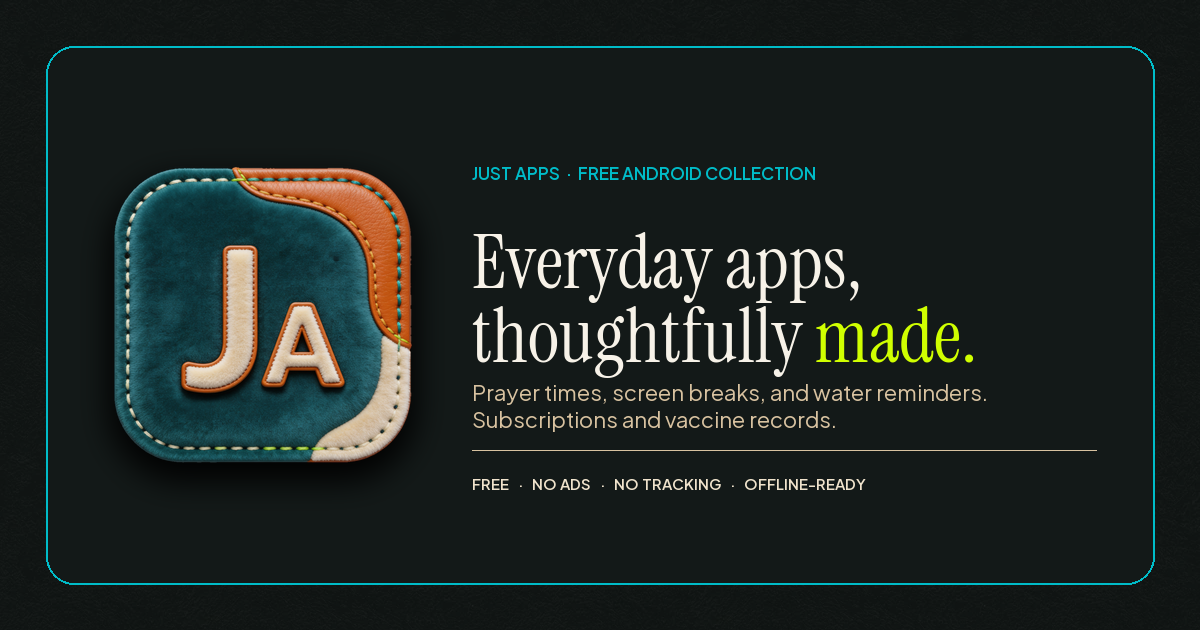
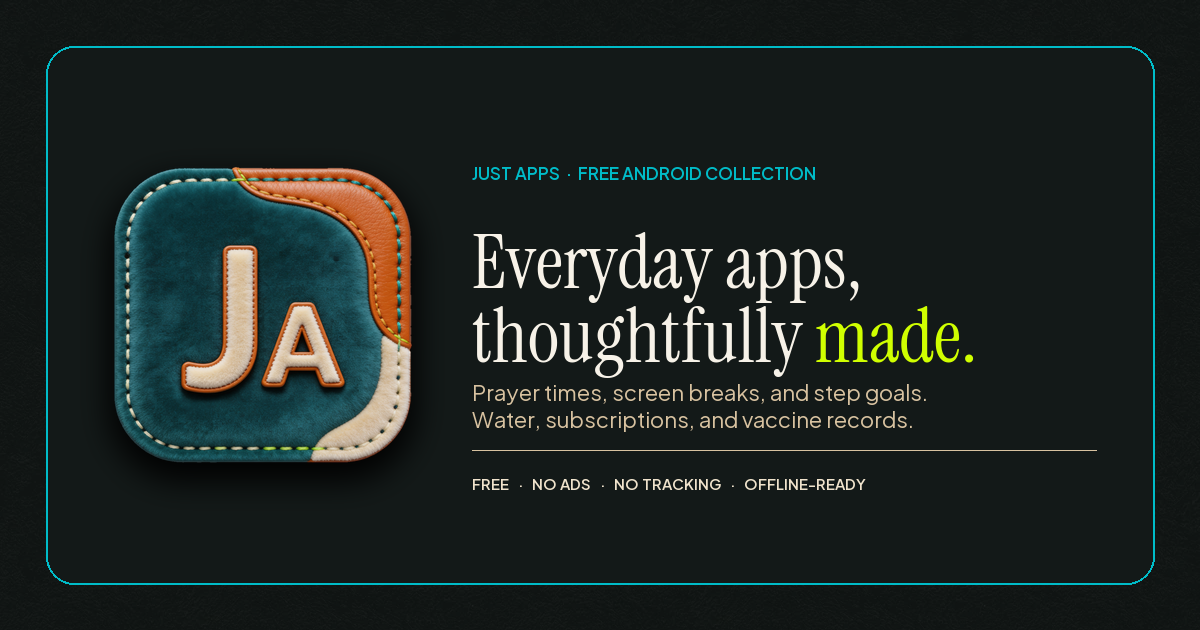
Add Step Reminder to landing page

Changed region(s): [[0.4008, 0.6032, 0.8325, 0.6937]]

diff --git a/docs/index.html b/docs/index.html
@@ -4,7 +4,7 @@
 <meta charset="utf-8">
 <meta name="viewport" content="width=device-width, initial-scale=1">
 <title>Free Android Apps, Quietly | Just Apps</title>
-<meta name="description" content="Just Apps makes thoughtful free apps for prayer times, screen breaks, water reminders, subscriptions and vaccine records. Private, ad-free, and quiet by design.">
+<meta name="description" content="Thoughtful free apps for prayer times, screen breaks, step goals, water reminders, subscriptions and vaccine records. Private, ad-free, and quiet by design.">
 <meta name="robots" content="index, follow, max-image-preview:large">
 <link rel="canonical" href="https://www.justsimpleapps.online/">
 <meta name="theme-color" content="#064B4D">
@@ -14,17 +14,17 @@
 <meta property="og:site_name" content="Just Apps">
 <meta property="og:locale" content="en_IN">
 <meta property="og:title" content="Free apps for everyday life, quietly | Just Apps">
-<meta property="og:description" content="Five useful apps for everyday life: prayer times, screen breaks, water reminders, subscriptions, and vaccine records. Free, private, and ad-free.">
+<meta property="og:description" content="Six useful apps for everyday life: prayer times, screen breaks, step goals, water reminders, subscriptions, and vaccine records. Free, private, and ad-free.">
 <meta property="og:image" content="https://www.justsimpleapps.online/assets/just-apps-social.png">
 <meta property="og:image:type" content="image/png">
 <meta property="og:image:width" content="1200">
 <meta property="og:image:height" content="630">
-<meta property="og:image:alt" content="Just Apps: five useful apps, including water reminders, with no ads or clutter">
+<meta property="og:image:alt" content="Just Apps: six useful apps, including step and water reminders, with no ads or clutter">
 <meta name="twitter:card" content="summary_large_image">
 <meta name="twitter:title" content="Free apps for everyday life, quietly | Just Apps">
-<meta name="twitter:description" content="Prayer times, screen breaks, water reminders, subscriptions, and vaccine records. Free, private, and ad-free.">
+<meta name="twitter:description" content="Prayer times, screen breaks, step goals, water reminders, subscriptions, and vaccine records. Free, private, and ad-free.">
 <meta name="twitter:image" content="https://www.justsimpleapps.online/assets/just-apps-social.png">
-<meta name="twitter:image:alt" content="Just Apps: five useful apps, including water reminders, with no ads or clutter">
+<meta name="twitter:image:alt" content="Just Apps: six useful apps, including step and water reminders, with no ads or clutter">
 <link rel="icon" href="/favicon.ico" sizes="32x32">
 <link rel="icon" type="image/svg+xml" href="/assets/just-apps-icon.svg">
 <link rel="icon" type="image/png" sizes="32x32" href="/assets/just-apps-icon-32.png">
@@ -44,7 +44,7 @@
       "name": "Just Apps",
       "alternateName": "Just Simple Apps",
       "url": "https://www.justsimpleapps.online/",
-      "description": "A small studio making free, quiet Android apps for everyday life: prayer times, screen breaks, water reminders, subscriptions and childhood vaccine records.",
+      "description": "A small studio making free, quiet Android apps for everyday life: prayer times, screen breaks, step goals, water reminders, subscriptions and childhood vaccine records.",
       "slogan": "Free apps for everyday life, quietly.",
       "foundingLocation": {
         "@type": "Place",
@@ -72,7 +72,7 @@
       "url": "https://www.justsimpleapps.online/",
       "name": "Just Apps",
       "alternateName": "Just Simple Apps",
-      "description": "Free, ad-free apps for prayer times, screen breaks, water reminders, subscriptions and vaccine records.",
+      "description": "Free, ad-free apps for prayer times, screen breaks, step goals, water reminders, subscriptions and vaccine records.",
       "publisher": {
         "@id": "https://www.justsimpleapps.online/#organization"
       },
@@ -83,7 +83,7 @@
       "@id": "https://www.justsimpleapps.online/#webpage",
       "url": "https://www.justsimpleapps.online/",
       "name": "Free Android Apps, Quietly | Just Apps",
-      "description": "Just Apps makes thoughtful free apps for prayer times, screen breaks, water reminders, subscriptions and vaccine records. Private, ad-free, and quiet by design.",
+      "description": "Thoughtful free apps for prayer times, screen breaks, step goals, water reminders, subscriptions and vaccine records. Private, ad-free, and quiet by design.",
       "isPartOf": {
         "@id": "https://www.justsimpleapps.online/#website"
       },
@@ -111,6 +111,9 @@
         },
         {
           "@id": "https://www.justsimpleapps.online/#water-reminder"
+        },
+        {
+          "@id": "https://www.justsimpleapps.online/#steps-reminder"
         }
       ],
       "inLanguage": "en",
@@ -131,13 +134,13 @@
       "contentUrl": "https://www.justsimpleapps.online/assets/just-apps-social.png",
       "width": 1200,
       "height": 630,
-      "caption": "Just Apps: five useful apps, including water reminders, with no ads or clutter"
+      "caption": "Just Apps: six useful apps, including step and water reminders, with no ads or clutter"
     },
     {
       "@type": "ItemList",
       "@id": "https://www.justsimpleapps.online/#apps",
-      "name": "Free Android apps by Just Apps",
-      "numberOfItems": 5,
+      "name": "Free apps by Just Apps",
+      "numberOfItems": 6,
       "itemListOrder": "https://schema.org/ItemListOrderAscending",
       "itemListElement": [
         {
@@ -302,6 +305,39 @@
             "downloadUrl": "https://github.com/owaiskhan-ash/Water-Reminder/releases/tag/v1.0.0",
             "softwareVersion": "1.0.0"
           }
+        },
+        {
+          "@type": "ListItem",
+          "position": 6,
+          "item": {
+            "@type": "SoftwareApplication",
+            "@id": "https://www.justsimpleapps.online/#steps-reminder",
+            "name": "Step Reminder",
+            "applicationCategory": "HealthApplication",
+            "operatingSystem": "Android 6.0 and later, web",
+            "url": "https://www.justsimpleapps.online/#steps-reminder",
+            "description": "A daily step counter with a goal you choose, a seven-day history and one reminder at a chosen hour. Steps, goals and history stay on your device.",
+            "image": "https://www.justsimpleapps.online/assets/steps/icon-192.png",
+            "featureList": [
+              "Daily step targets from 2,000 to 20,000",
+              "Android reads the phone's own step counter",
+              "Seven-day history and a daily ledger",
+              "One reminder at a chosen hour; web reminders fire only while the app is open",
+              "No account, Google Fit, Health Connect, cloud or analytics"
+            ],
+            "inLanguage": "en",
+            "isAccessibleForFree": true,
+            "publisher": {
+              "@id": "https://www.justsimpleapps.online/#organization"
+            },
+            "offers": {
+              "@type": "Offer",
+              "price": 0,
+              "priceCurrency": "INR"
+            },
+            "downloadUrl": "https://github.com/owaiskhan-ash/Steps-Reminder/releases/tag/v1.3.5",
+            "softwareVersion": "1.3.5"
+          }
         }
       ]
     },
@@ -317,7 +353,7 @@
           "name": "Are these apps free?",
           "acceptedAnswer": {
             "@type": "Answer",
-            "text": "Yes. All five apps are free to use or download, and none has ads."
+            "text": "Yes. All six apps are free to use or download, and none has ads."
           }
         },
         {
@@ -365,7 +401,7 @@
           "name": "Do the apps require an account or track me?",
           "acceptedAnswer": {
             "@type": "Answer",
-            "text": "The apps have no accounts, advertising or analytics tracking. Water Reminder makes no network requests, and Vaccine Routine stores its records locally on your device."
+            "text": "The apps have no accounts, advertising or analytics tracking. Water Reminder makes no network requests, and Vaccine Routine and Step Reminder keep personal records on your device."
           }
         },
         {
@@ -382,6 +418,22 @@
           "acceptedAnswer": {
             "@type": "Answer",
             "text": "No. Water Reminder only sends a nudge; it has no intake log, counters or charts."
+          }
+        },
+        {
+          "@type": "Question",
+          "name": "What does Step Reminder do?",
+          "acceptedAnswer": {
+            "@type": "Answer",
+            "text": "It tracks steps against a daily target, builds a seven-day history and gives one reminder at the hour you choose. Android reminders use local notifications; web reminders fire only while the app is open."
+          }
+        },
+        {
+          "@type": "Question",
+          "name": "Do steps from Step Reminder sync to Google Fit or Health Connect?",
+          "acceptedAnswer": {
+            "@type": "Answer",
+            "text": "No. Step counts, goals and history stay on your device. The app does not connect to Google Fit, Health Connect or a cloud service."
           }
         }
       ]
@@ -996,7 +1048,7 @@
   <div class="hero-message">
     <span class="eyebrow"><span class="dot" aria-hidden="true"></span>FREE, THOUGHTFUL APPS · NO ADS</span>
     <h1 id="mission-title">Free Android apps,<br>quietly <span class="accent-lime">made.</span></h1>
-    <p>From prayer times and screen breaks to water reminders, recurring bills, and a child’s vaccine record, each app is made to do one useful thing well. Simple, private, and free, with no ads or unnecessary noise.</p>
+    <p>From prayer times and screen breaks to step goals, water reminders, recurring bills, and a child’s vaccine record, each app is made to do one useful thing well. Simple, private, and free, with no ads or unnecessary noise.</p>
   </div>
 </section>
 
@@ -1006,9 +1058,9 @@
 <section class="section apps-section" id="apps">
   <div class="wrap">
     <div class="section-head">
-      <span class="kicker">THE COLLECTION · 05 APPS</span>
+      <span class="kicker">THE COLLECTION · 06 APPS</span>
       <h2>Small, thoughtful tools. Nothing <span class="accent-lime">extra.</span></h2>
-      <p>One gallery, five focused apps for the things worth keeping track of. Free to use, with no ads and privacy at the centre.</p>
+      <p>One gallery, six focused apps for the things worth keeping track of. Free to use, with no ads and privacy at the centre.</p>
     </div>
 
     <div class="apps">
@@ -1103,6 +1155,22 @@
           <p class="app-meta">Android 7.0+ &nbsp;·&nbsp; Free &nbsp;·&nbsp; No network access</p>
         </div>
       </article>
+      <article class="app-card" id="steps-reminder">
+        <a class="app-preview steps-preview" href="https://github.com/owaiskhan-ash/Steps-Reminder" aria-label="Visit Step Reminder on GitHub">
+          <img src="assets/steps/icon-192.png" alt="SC Step Reminder app icon, a stitched leather and felt badge" width="192" height="192" decoding="async" loading="lazy">
+          <span class="preview-label">Daily goal · one gentle reminder</span>
+        </a>
+        <div class="app-content">
+          <div class="app-head">
+            <img class="app-icon" src="assets/steps/icon-192.png" alt="" width="56" height="56" loading="lazy" decoding="async">
+            <div class="app-id"><span class="app-no">06 · Movement</span><h3>Step Reminder</h3><p class="app-sub">A quiet nudge to keep moving</p></div>
+          </div>
+          <p class="app-desc">Track your steps against a daily target, see your seven-day history, and get one reminder at the hour you choose. Web reminders work only while the app is open. Steps, goals and history stay on your phone—no account, cloud or analytics.</p>
+          <div class="tags"><span>Daily step goal</span><span>7-day history</span><span>Local reminders</span></div>
+          <div class="app-foot"><a class="btn btn-primary" href="https://github.com/owaiskhan-ash/Steps-Reminder/releases/tag/v1.3.5">Download Step Reminder</a><a class="btn btn-ghost" href="https://github.com/owaiskhan-ash/Steps-Reminder">Project on GitHub</a></div>
+          <p class="app-meta">Android 6.0+ &amp; web &nbsp;·&nbsp; Free &nbsp;·&nbsp; No account</p>
+        </div>
+      </article>
     </div>
   </div>
 </section>
@@ -1132,9 +1200,9 @@
       <p>Just Apps is an independent studio in Mumbai, India. It builds one app at a time, for a need it knows first-hand.</p>
     </div>
     <div class="grid principles-grid">
-      <div class="feature"><h3>Five apps, no roadmap theatre</h3><p>Each app starts from a real, everyday need and stops when that need is met. There is no growth team, no engagement metric, and no plan to add features that keep you scrolling.</p></div>
+      <div class="feature"><h3>Six apps, no roadmap theatre</h3><p>Each app starts from a real, everyday need and stops when that need is met. There is no growth team, no engagement metric, and no plan to add features that keep you scrolling.</p></div>
       <div class="feature"><h3>Free, and honestly so</h3><p>No ads, no accounts, no in-app purchases and no analytics. The apps are cheap to run because they do not depend on a server that watches you.</p></div>
-      <div class="feature"><h3>Checkable, not just claimed</h3><p>Screen Time Reminder, Subscription Tracker and Vaccine Routine are open source, so the privacy claims on this site can be read in the code rather than taken on trust.</p></div>
+      <div class="feature"><h3>Checkable, not just claimed</h3><p>Screen Time Reminder, Subscription Tracker, Vaccine Routine, Water Reminder and Step Reminder are open source, so the privacy claims on this site can be read in the code rather than taken on trust.</p></div>
     </div>
     <p class="studio-note">Last reviewed 25 October 2026 &nbsp;·&nbsp; <a href="/privacy">Privacy policy</a></p>
   </div>
@@ -1149,7 +1217,7 @@
       <p>Clear details on the collection, privacy, and what each app does.</p>
     </div>
     <div class="faq-list">
-      <details><summary>Are these apps free?</summary><p>Yes. All five apps are free to use or download, and none has ads.</p></details>
+      <details><summary>Are these apps free?</summary><p>Yes. All six apps are free to use or download, and none has ads.</p></details>
       <details><summary>What does Vaccine Routine do?</summary><p>It keeps a local vaccine record for a child, helps plan doses and reminders, and offers India’s National Immunization Schedule as optional suggestions.</p></details>
       <details><summary>Is the vaccine schedule medical advice?</summary><p>No. The schedule is only a suggestion. Timing differs between children and states; follow the guidance of the health worker who sees your child.</p></details>
       <details><summary>What does Subscription Tracker do?</summary><p>It lets you manually record subscriptions and recurring bills, see normalized monthly and yearly spending, track upcoming renewal dates, and receive optional reminders before payments are due.</p></details>
@@ -1157,7 +1225,9 @@
       <details><summary>Which app gives prayer times and adhan reminders?</summary><p>Namaaz Reminder shows daily prayer times for cities in India, a countdown to the next prayer, and optional reminders at adhan.</p></details>
       <details><summary>What does Water Reminder do?</summary><p>It nudges you to drink water every two hours by default, aligned to your local clock. Choose a 1, 2, 3, or 4 hour interval and turn on quiet hours from 10 PM to 8 AM.</p></details>
       <details><summary>Does Water Reminder track how much I drink?</summary><p>No. It only sends reminders; there is no intake log, counter, or chart.</p></details>
-      <details><summary>Do the apps require an account or track me?</summary><p>The apps have no accounts, advertising, or analytics tracking. Water Reminder makes no network requests, and Vaccine Routine stores its records locally on your device.</p></details>
+      <details><summary>What does Step Reminder do?</summary><p>It tracks steps against a daily target, builds a seven-day history, and gives one reminder at the hour you choose. Android reminders use local notifications; web reminders fire only while the app is open.</p></details>
+      <details><summary>Do steps from Step Reminder sync to Google Fit or Health Connect?</summary><p>No. Step counts, goals, and history stay on your device. Step Reminder does not connect to Google Fit, Health Connect, or a cloud service.</p></details>
+      <details><summary>Do the apps require an account or track me?</summary><p>The apps have no accounts, advertising, or analytics tracking. Water Reminder makes no network requests, and Vaccine Routine and Step Reminder keep personal records on your device.</p></details>
     </div>
   </div>
 </section>
@@ -1169,7 +1239,7 @@
   <div class="wrap foot-inner">
     <div class="foot-brand">
       <img class="nav-logo nav-logo--footer" src="/assets/just-apps-icon-64.png" srcset="/assets/just-apps-icon-64.png 1x, /assets/just-apps-icon-128.png 2x" width="28" height="28" alt="" loading="lazy" decoding="async">
-      <span>Namaaz Reminder &nbsp;·&nbsp; Screen Time Reminder &nbsp;·&nbsp; Subscription Tracker &nbsp;·&nbsp; Vaccine Routine &nbsp;·&nbsp; Water Reminder &nbsp;·&nbsp; Free · no ads · no tracking</span>
+      <span>Namaaz Reminder &nbsp;·&nbsp; Screen Time Reminder &nbsp;·&nbsp; Subscription Tracker &nbsp;·&nbsp; Vaccine Routine &nbsp;·&nbsp; Water Reminder &nbsp;·&nbsp; Step Reminder &nbsp;·&nbsp; Free · no ads · no tracking</span>
     </div>
     <nav class="foot-links" aria-label="Footer">
       <a href="#apps">Apps</a>

diff --git a/docs/privacy.html b/docs/privacy.html
@@ -19,12 +19,12 @@
 <meta property="og:image:type" content="image/png">
 <meta property="og:image:width" content="1200">
 <meta property="og:image:height" content="630">
-<meta property="og:image:alt" content="Just Apps: five useful apps, including water reminders, with no ads or clutter">
+<meta property="og:image:alt" content="Just Apps: six useful apps, including step and water reminders, with no ads or clutter">
 <meta name="twitter:card" content="summary_large_image">
 <meta name="twitter:title" content="Privacy policy: Namaaz Reminder | Just Apps">
 <meta name="twitter:description" content="No account, no ads, no analytics, no location permission.">
 <meta name="twitter:image" content="https://www.justsimpleapps.online/assets/just-apps-social.png">
-<meta name="twitter:image:alt" content="Just Apps: five useful apps, including water reminders, with no ads or clutter">
+<meta name="twitter:image:alt" content="Just Apps: six useful apps, including step and water reminders, with no ads or clutter">
 <link rel="icon" href="/favicon.ico" sizes="32x32">
 <link rel="icon" type="image/svg+xml" href="/assets/just-apps-icon.svg">
 <link rel="icon" type="image/png" sizes="32x32" href="/assets/just-apps-icon-32.png">
@@ -422,6 +422,7 @@
   <h2>Other apps in the collection</h2>
   <p><strong>Screen Time Reminder</strong> is a separate app with its own policy, kept with its source at <a href="https://github.com/owaiskhan-ash/ScreenTime-Reminder#privacy">the ScreenTime-Reminder repository on GitHub</a>. The short version is the same: it reads only which app was in front and for how long, stores every number in its own private storage on the phone, contains no analytics or advertising SDK, and does not request the internet permission at all, so it has no way to send anything anywhere.</p>
   <p><strong>Water Reminder</strong> is a separate Android app. It schedules drink-water reminders on the device and makes no network requests; it has no account, analytics, or intake log. See the <a href="https://github.com/owaiskhan-ash/Water-Reminder">project and release on GitHub</a>.</p>
+  <p><strong>Step Reminder</strong> is a separate Android and web app for step goals, daily reminders and local history. Steps, goals and history stay on the device; it has no account, cloud service or analytics and makes no runtime network calls. See the <a href="https://github.com/owaiskhan-ash/Steps-Reminder">Step Reminder project on GitHub</a>.</p>
 
   <h2>Information we collect</h2>
   <p>We do not collect, store, sell or share any personal information. The app contains no analytics SDK, no crash-reporting SDK, no advertising SDK and no social login.</p>

diff --git a/docs/404.html b/docs/404.html
@@ -210,7 +210,7 @@
     <p>The address may have changed, or the link may be mistyped. Everything on this site lives in two places:</p>
 
     <ul>
-      <li><a href="/">The collection of five free apps</a> &mdash; prayer times, screen breaks, water reminders, subscriptions and vaccine records.</li>
+      <li><a href="/">The collection of six free apps</a> &mdash; prayer times, screen breaks, step goals, water reminders, subscriptions and vaccine records.</li>
       <li><a href="/privacy">The privacy policy</a> &mdash; what each app stores and what never leaves your device.</li>
     </ul>
 

diff --git a/docs/vaccine-routine.html b/docs/vaccine-routine.html
@@ -595,7 +595,7 @@
     <a href="/screen-time-reminder"><strong>Screen Time Reminder</strong><span>Wellbeing</span></a>
     <a href="/subscription-tracker"><strong>Subscription Tracker</strong><span>Money</span></a>
   </div>
-  <p style="margin-top:26px"><a href="/">← Back to all five apps</a></p>
+  <p style="margin-top:26px"><a href="/">← Back to all six apps</a></p>
 
   </div>
 </main>

diff --git a/docs/subscription-tracker.html b/docs/subscription-tracker.html
@@ -596,7 +596,7 @@
     <a href="/screen-time-reminder"><strong>Screen Time Reminder</strong><span>Wellbeing</span></a>
     <a href="/vaccine-routine"><strong>Vaccine Routine</strong><span>Family</span></a>
   </div>
-  <p style="margin-top:26px"><a href="/">← Back to all five apps</a></p>
+  <p style="margin-top:26px"><a href="/">← Back to all six apps</a></p>
 
   </div>
 </main>

diff --git a/docs/namaaz-reminder.html b/docs/namaaz-reminder.html
@@ -623,7 +623,7 @@
     <a href="/subscription-tracker"><strong>Subscription Tracker</strong><span>Money</span></a>
     <a href="/vaccine-routine"><strong>Vaccine Routine</strong><span>Family</span></a>
   </div>
-  <p style="margin-top:26px"><a href="/">← Back to all five apps</a></p>
+  <p style="margin-top:26px"><a href="/">← Back to all six apps</a></p>
 
   </div>
 </main>

diff --git a/docs/screen-time-reminder.html b/docs/screen-time-reminder.html
@@ -594,7 +594,7 @@
     <a href="/subscription-tracker"><strong>Subscription Tracker</strong><span>Money</span></a>
     <a href="/vaccine-routine"><strong>Vaccine Routine</strong><span>Family</span></a>
   </div>
-  <p style="margin-top:26px"><a href="/">← Back to all five apps</a></p>
+  <p style="margin-top:26px"><a href="/">← Back to all six apps</a></p>
 
   </div>
 </main>

diff --git a/docs/styles.css b/docs/styles.css
@@ -1057,6 +1057,11 @@ html[data-theme="light"] .feature:focus-within::after {
   transform: translateY(-3px);
 }
 
+.apps-section .steps-preview img {
+  height: 68%;
+  max-width: 68%;
+}
+
 .apps-section .preview-label {
   position: absolute;
   z-index: 2;

diff --git a/design/build_site_icons.py b/design/build_site_icons.py
@@ -405,13 +405,13 @@ def _build_social_card(ja_icon_512: Image.Image) -> None:
 
     draw.text(
         (tx, 378),
-        "Prayer times, screen breaks, and water reminders.",
+        "Prayer times, screen breaks, and step goals.",
         font=f_sub,
         fill=(216, 194, 160, 240),
     )
     draw.text(
         (tx, 405),
-        "Subscriptions and vaccine records.",
+        "Water, subscriptions, and vaccine records.",
         font=f_sub,
         fill=(216, 194, 160, 240),
     )

diff --git a/design/build_app_pages.py b/design/build_app_pages.py
@@ -594,7 +594,7 @@ TEMPLATE = """<!DOCTYPE html>
   <div class="related">
 {related}
   </div>
-  <p style="margin-top:26px"><a href="/">← Back to all five apps</a></p>
+  <p style="margin-top:26px"><a href="/">← Back to all six apps</a></p>
 
   </div>
 </main>
